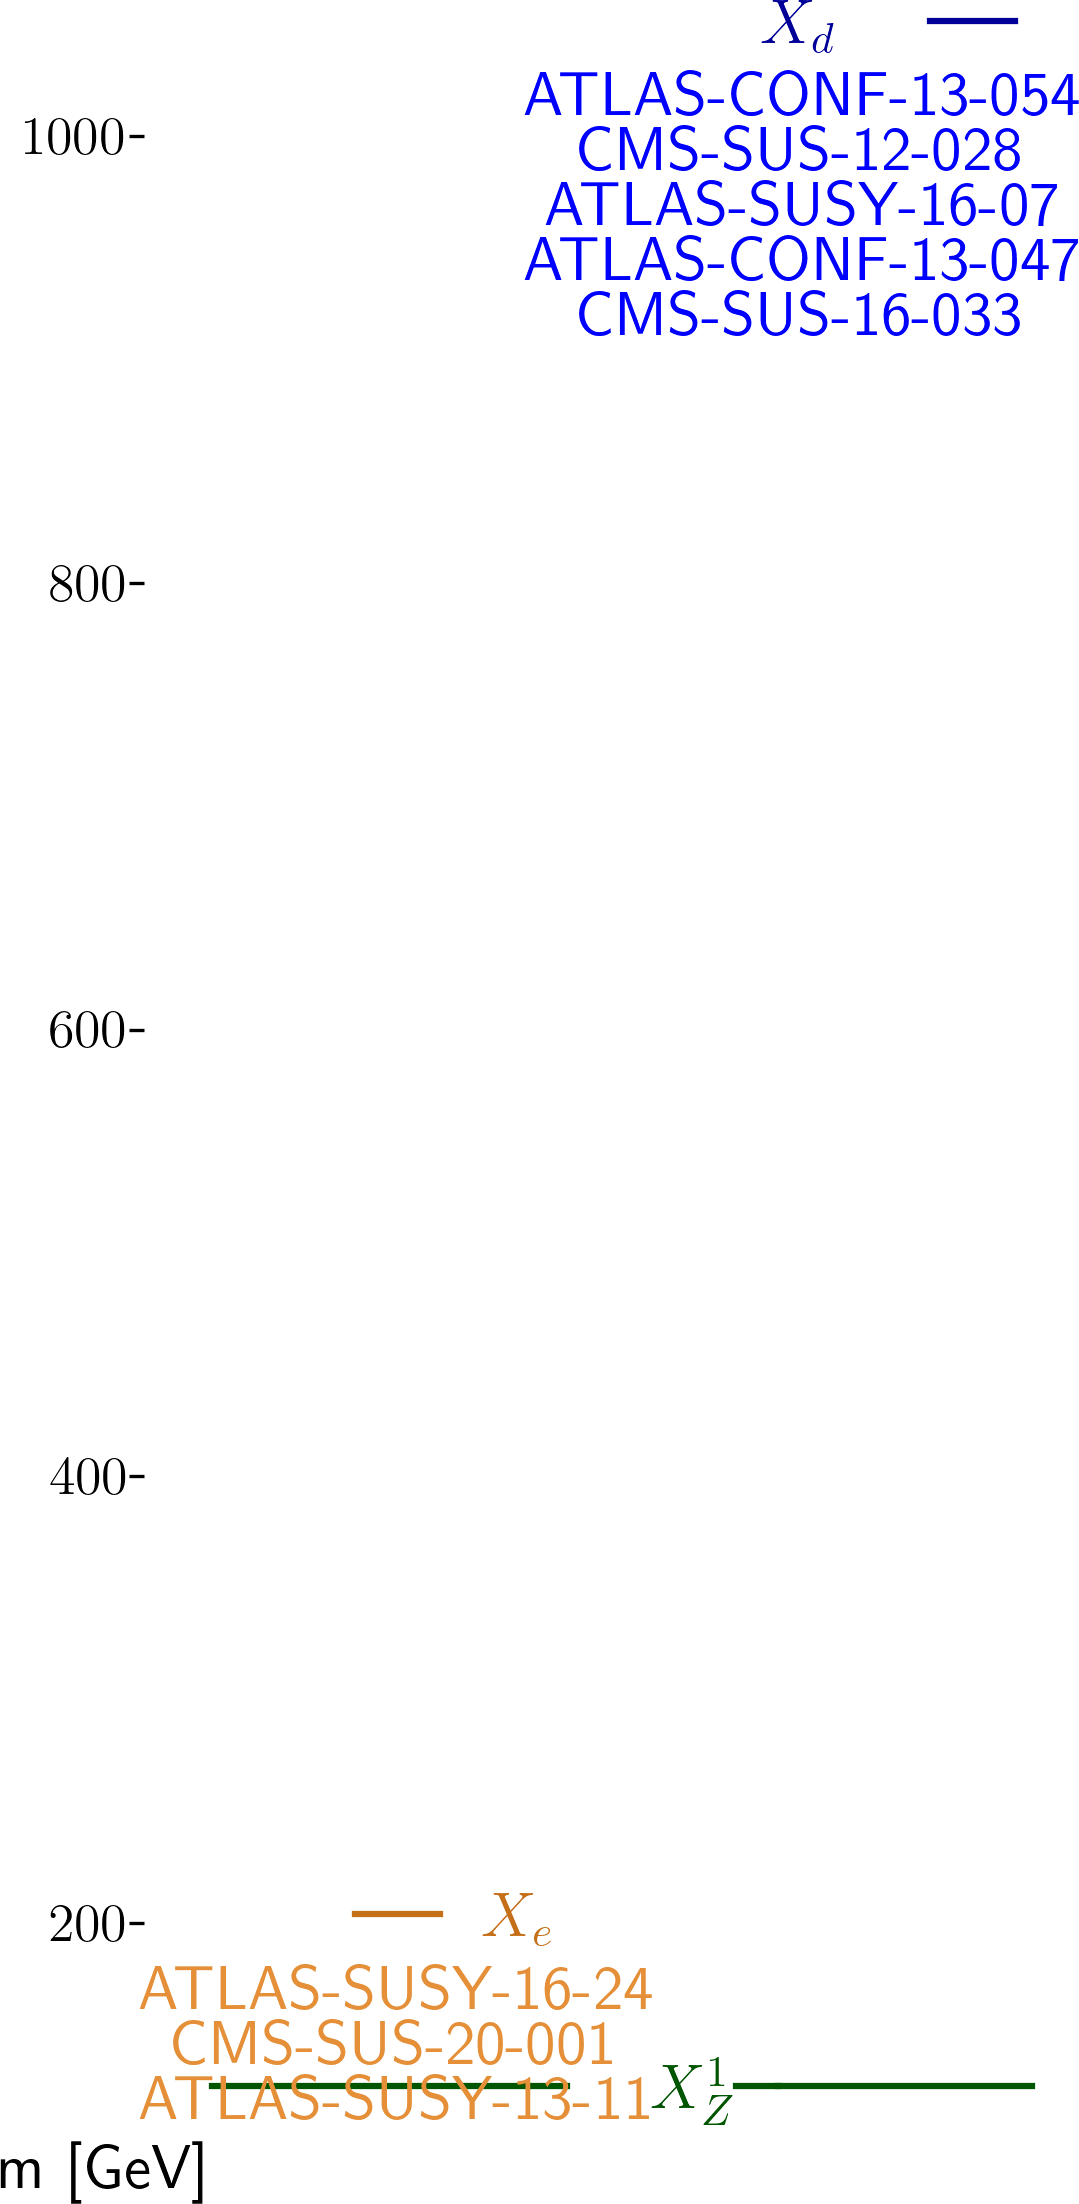
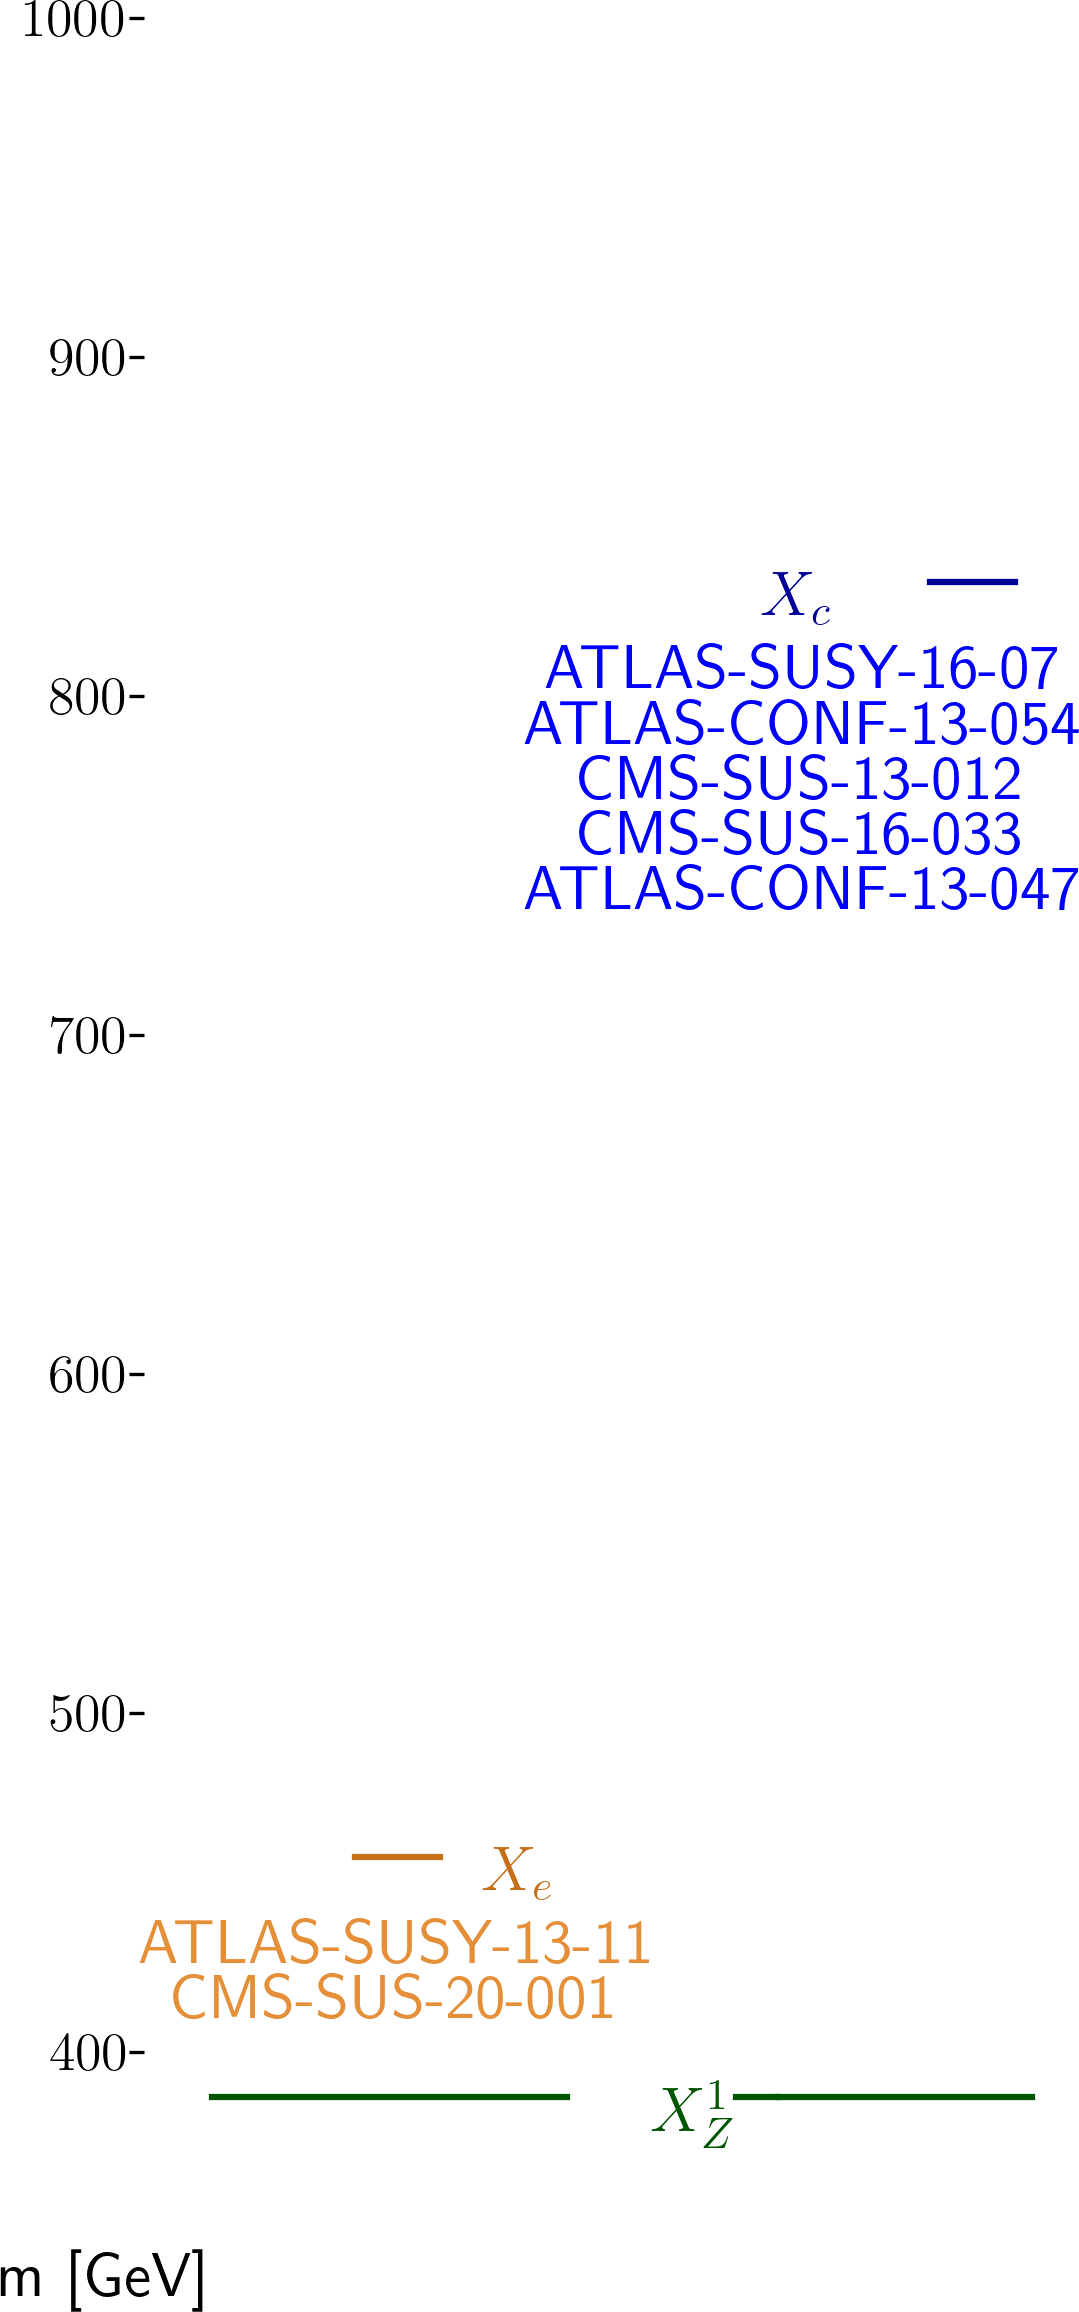
automated update by plotHiscore.py to /home/walten/git/smodels.github.io/protomodels

diff --git a/protomodels/latest/rawnumbers.html b/protomodels/latest/rawnumbers.html
@@ -1,12 +1,11 @@
 <table>
 <tr><th>Analysis Name</th><th>Type</th><th>Dataset</th><th>Topos</th><th>Observed</th><th>Expected</th><th>Approx &sigma;</th><th>Particles</th>
 </tr>
-<tr><td><a href=https://atlas.web.cern.ch/Atlas/GROUPS/PHYSICS/CONFNOTES/ATLAS-CONF-2013-047/>ATLAS-CONF-2013-047</a></td><td>em</td> <td>E Loose</td><td>T2</td><td>166</td><td>113 +/- 21</td><td style="text-align:right">2.3 &sigma;</td><td style="text-align:right">X<sub>d</sub></td></tr>
-<tr><td><a href=https://atlas.web.cern.ch/Atlas/GROUPS/PHYSICS/CONFNOTES/ATLAS-CONF-2013-054/>ATLAS-CONF-2013-054</a></td><td>em</td> <td>8j80 flavor 0 b ...</td><td>T2</td><td>2</td><td>0.9 +/- 0.6</td><td style="text-align:right">1.0 &sigma;</td><td style="text-align:right">X<sub>d</sub></td></tr>
+<tr><td><a href=https://atlas.web.cern.ch/Atlas/GROUPS/PHYSICS/CONFNOTES/ATLAS-CONF-2013-047/>ATLAS-CONF-2013-047</a></td><td>em</td> <td>E Loose</td><td>T2</td><td>166</td><td>113 +/- 21</td><td style="text-align:right">2.3 &sigma;</td><td style="text-align:right">X<sub>c</sub></td></tr>
+<tr><td><a href=https://atlas.web.cern.ch/Atlas/GROUPS/PHYSICS/CONFNOTES/ATLAS-CONF-2013-054/>ATLAS-CONF-2013-054</a></td><td>em</td> <td>8j50 flavor 0 b ...</td><td>T2</td><td>40</td><td>35 +/- 4</td><td style="text-align:right">0.7 &sigma;</td><td style="text-align:right">X<sub>c</sub></td></tr>
 <tr><td><a href=https://atlas.web.cern.ch/Atlas/GROUPS/PHYSICS/PAPERS/SUSY-2013-11/>ATLAS-SUSY-2013-11</a></td><td>em</td> <td>Zjets</td><td>TSlepSlep</td><td>1</td><td>1.4 +/- 0.6</td><td style="text-align:right">-0.3 &sigma;</td><td style="text-align:right">X<sub>e</sub></td></tr>
-<tr><td><a href=https://atlas.web.cern.ch/Atlas/GROUPS/PHYSICS/PAPERS/SUSY-2016-07/>ATLAS-SUSY-2016-07</a></td><td>em</td> <td>2j_Meff_1200</td><td>T2</td><td>611</td><td>526 +/- 31</td><td style="text-align:right">2.2 &sigma;</td><td style="text-align:right">X<sub>d</sub></td></tr>
-<tr><td><a href=https://atlas.web.cern.ch/Atlas/GROUPS/PHYSICS/PAPERS/SUSY-2016-24/>ATLAS-SUSY-2016-24</a></td><td>em</td> <td>SR2-SF-loose</td><td>TSelSel</td><td>153</td><td>133 +/- 22</td><td style="text-align:right">0.8 &sigma;</td><td style="text-align:right">X<sub>e</sub></td></tr>
-<tr><td><a href=https://twiki.cern.ch/twiki/bin/view/CMSPublic/PhysicsResultsSUS12028>CMS-SUS-12-028</a></td><td>ul</td> <td>-</td><td>T2</td><td> 14.7 fb </td><td> 9.0 fb</td><td style="text-align:right">1.2 &sigma;</td><td style="text-align:right">X<sub>d</sub></td></tr>
-<tr><td><a href=http://cms-results.web.cern.ch/cms-results/public-results/publications/SUS-16-033/index.html>CMS-SUS-16-033</a></td><td>em</td> <td>SR2_Njet3_Nb0_H ...</td><td>T2</td><td>71</td><td>55.2 +/- 11.5</td><td style="text-align:right">1.2 &sigma;</td><td style="text-align:right">X<sub>d</sub></td></tr>
-<tr><td><a href=http://cms-results.web.cern.ch/cms-results/public-results/publications/SUS-20-001/index.html>CMS-SUS-20-001</a></td><td>ul</td> <td>-</td><td>TSlepSlep</td><td> 164.7 fb </td><td> 28.0 fb</td><td style="text-align:right">9.6 &sigma;</td><td style="text-align:right">X<sub>e</sub></td></tr>
+<tr><td><a href=https://atlas.web.cern.ch/Atlas/GROUPS/PHYSICS/PAPERS/SUSY-2016-07/>ATLAS-SUSY-2016-07</a></td><td>em</td> <td>2j_Meff_1200</td><td>T2</td><td>611</td><td>526 +/- 31</td><td style="text-align:right">2.2 &sigma;</td><td style="text-align:right">X<sub>c</sub></td></tr>
+<tr><td><a href=https://twiki.cern.ch/twiki/bin/view/CMSPublic/PhysicsResultsSUS13012>CMS-SUS-13-012</a></td><td>ul</td> <td>-</td><td>T2</td><td> 40.6 fb </td><td> 24.5 fb</td><td style="text-align:right">1.3 &sigma;</td><td style="text-align:right">X<sub>c</sub></td></tr>
+<tr><td><a href=http://cms-results.web.cern.ch/cms-results/public-results/publications/SUS-16-033/index.html>CMS-SUS-16-033</a></td><td>em</td> <td>SR2_Njet3_Nb0_H ...</td><td>T2</td><td>71</td><td>55.2 +/- 11.5</td><td style="text-align:right">1.2 &sigma;</td><td style="text-align:right">X<sub>c</sub></td></tr>
+<tr><td><a href=http://cms-results.web.cern.ch/cms-results/public-results/publications/SUS-20-001/index.html>CMS-SUS-20-001</a></td><td>ul</td> <td>-</td><td>TSlepSlep</td><td> 248.6 fb </td><td> 22.9 fb</td><td style="text-align:right">19.3 &sigma;</td><td style="text-align:right">X<sub>e</sub></td></tr>
 </table>

diff --git a/protomodels/latest/index.html b/protomodels/latest/index.html
@@ -1,23 +1,23 @@
 <html>
 <body>
 <center>
-<table><td><h1>Current best protomodel: <i>K</i>=11.39</h1><td><img height=60px src=https://smodels.github.io/pics/banner.png></table>
+<table><td><h1>Current best protomodel: <i>K</i>=46.00</h1><td><img height=60px src=https://smodels.github.io/pics/banner.png></table>
 </center>
-<b><a href=./hiscore.slha>ProtoModel</a> <a href=./pmodel.py>(dict)</a> produced with <a href=https://smodels.github.io/docs/Validation231rc>database v2.3.1rc</a>, combination strategy <a href=./matrix_aggressive.png>aggressive</a> in walker 0 step 1782.</b> SSM plots for: <br>
+<b><a href=./hiscore.slha>ProtoModel</a> <a href=./pmodel.py>(dict)</a> produced with <a href=https://smodels.github.io/docs/Validation231rc>database v2.3.1rc</a>, combination strategy <a href=./matrix_aggressive.png>aggressive</a> in walker 0 step 255.</b> SSM plots for: <br>
 <table width=80%>
 <tr><td>
-<br><b>33 predictions available. Highest r values are:</b><br><ul>
-<li><a href=https://cms-results.web.cern.ch/cms-results/public-results/publications/SUS-17-009/>CMS-SUS-17-009</a>:TSlepSlep r=1.29, r<sub>exp</sub>=1.04<br>
-<li><a href=http://cms-results.web.cern.ch/cms-results/public-results/publications/SUS-19-006/index.html>CMS-SUS-19-006</a>:T2 r=1.27, r<sub>exp</sub>=1.11<br>
-<li><a href=https://atlas.web.cern.ch/Atlas/GROUPS/PHYSICS/PAPERS/SUSY-2018-22/>ATLAS-SUSY-2018-22</a>:T2 r=1.16, r<sub>exp</sub>=N/A<br>
-<li><a href=http://cms-results.web.cern.ch/cms-results/public-results/publications/SUS-19-006/index.html>CMS-SUS-19-006</a>:T2 r=1.07, r<sub>exp</sub>=0.90<br>
-<li><a href=http://cms-results.web.cern.ch/cms-results/public-results/publications/SUS-19-006/index.html>CMS-SUS-19-006-agg</a>:T2 r=0.83, r<sub>exp</sub>=0.92<br>
+<br><b>26 predictions available. Highest r values are:</b><br><ul>
+<li><a href=http://cms-results.web.cern.ch/cms-results/public-results/publications/SUS-19-006/index.html>CMS-SUS-19-006</a>:T2 r=1.57, r<sub>exp</sub>=1.50<br>
+<li><a href=https://atlas.web.cern.ch/Atlas/GROUPS/PHYSICS/PAPERS/SUSY-2018-32/>ATLAS-SUSY-2018-32</a>:TSlepSlep r=1.41, r<sub>exp</sub>=N/A<br>
+<li><a href=https://atlas.web.cern.ch/Atlas/GROUPS/PHYSICS/PAPERS/SUSY-2018-22/>ATLAS-SUSY-2018-22</a>:T2 r=1.27, r<sub>exp</sub>=N/A<br>
+<li><a href=http://cms-results.web.cern.ch/cms-results/public-results/publications/SUS-19-006/index.html>CMS-SUS-19-006</a>:T2 r=1.26, r<sub>exp</sub>=1.12<br>
+<li><a href=http://cms-results.web.cern.ch/cms-results/public-results/publications/SUS-16-033/index.html>CMS-SUS-16-033</a>:T2 r=1.23, r<sub>exp</sub>=0.82<br>
 </ul>
-<td><img width=600px src=./texdoc.png?1686509924>
-<br><font size=-1>Last updated: Sun Jun 11 20:58:44 2023</font>
+<td><img width=600px src=./texdoc.png?1686510438>
+<br><font size=-1>Last updated: Sun Jun 11 21:07:18 2023</font>
 </table><table style="width:80%">
-<td width=45%><img height=580px src=./ruler.png?1686509924><td width=55%><img height=360px src=./decays.png?1686509924>
-<font size=-3><iframe type="text/html" height="220px" width="100%s" frameborder="0" src="./rawnumbers.html?1686509924"></iframe></font>
+<td width=45%><img height=580px src=./ruler.png?1686510438><td width=55%><img height=360px src=./decays.png?1686510438>
+<font size=-3><iframe type="text/html" height="220px" width="100%s" frameborder="0" src="./rawnumbers.html?1686510438"></iframe></font>
 </table>
 </body>
 </html>

diff --git a/protomodels/latest/pmodel.py b/protomodels/latest/pmodel.py
@@ -1,1 +1,1 @@
-{'masses': {1000022: 117.203, 1000011: 193.802, 1000001: 1041.592}, 'ssmultipliers': {(1000022, 1000022): 0.0, (1000011, 1000011): 4.306, (-1000011, 1000011): 4.306, (-1000011, -1000011): 4.306, (1000011, 1000022): 4.306, (-1000011, 1000022): 4.306, (1000001, 1000001): 0.997, (-1000001, 1000001): 0.997, (-1000001, -1000001): 0.997, (1000001, 1000022): 0.997, (-1000001, 1000022): 0.997, (1000001, 1000011): 0.997, (-1000001, 1000011): 0.997, (-1000011, 1000001): 0.997, (-1000011, -1000001): 0.997}, 'decays': {1000022: {}, 1000011: {(1000022, 11): 1.0}, 1000001: {(1000022, 1): 1.0}}, 'timestamp': 'Sun Jun 11 20:58:42 2023', 'Z': 3.865, 'K': 11.389, 'walkerid': 0, 'step': 1782, 'codever': '2.0', 'dbver': '2.3.1rc'}
+{'masses': {1000022: 376.739, 1000011: 447.684, 1000004: 823.849}, 'ssmultipliers': {(1000022, 1000022): 0.0, (1000011, 1000011): 314.383, (-1000011, 1000011): 314.383, (-1000011, -1000011): 314.383, (1000011, 1000022): 314.383, (-1000011, 1000022): 314.383, (1000004, 1000004): 1.177, (-1000004, 1000004): 1.177, (-1000004, -1000004): 1.177, (1000004, 1000022): 1.177, (-1000004, 1000022): 1.177, (1000004, 1000011): 0.792, (-1000004, 1000011): 0.792, (-1000011, 1000004): 0.792, (-1000011, -1000004): 0.792}, 'decays': {1000022: {}, 1000011: {(1000022, 11): 1.0}, 1000004: {(1000022, 4): 1.0}}, 'timestamp': 'Sun Jun 11 21:07:12 2023', 'Z': 7.039, 'K': 45.996, 'walkerid': 0, 'step': 255, 'codever': '2.0', 'dbver': '2.3.1rc'}
